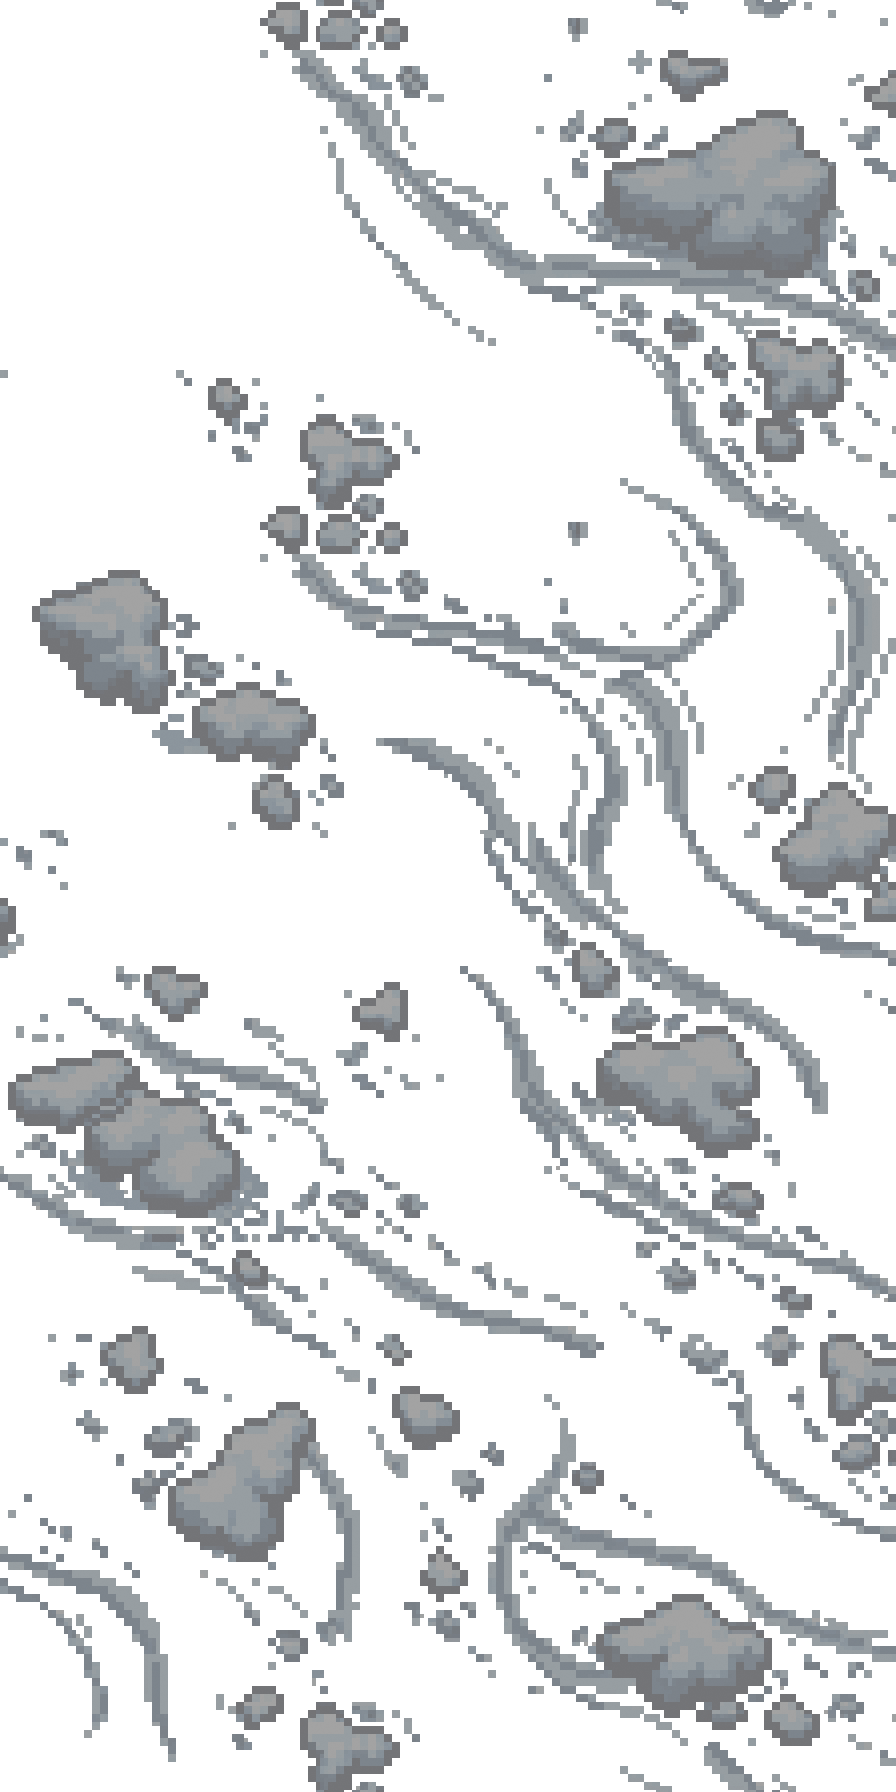
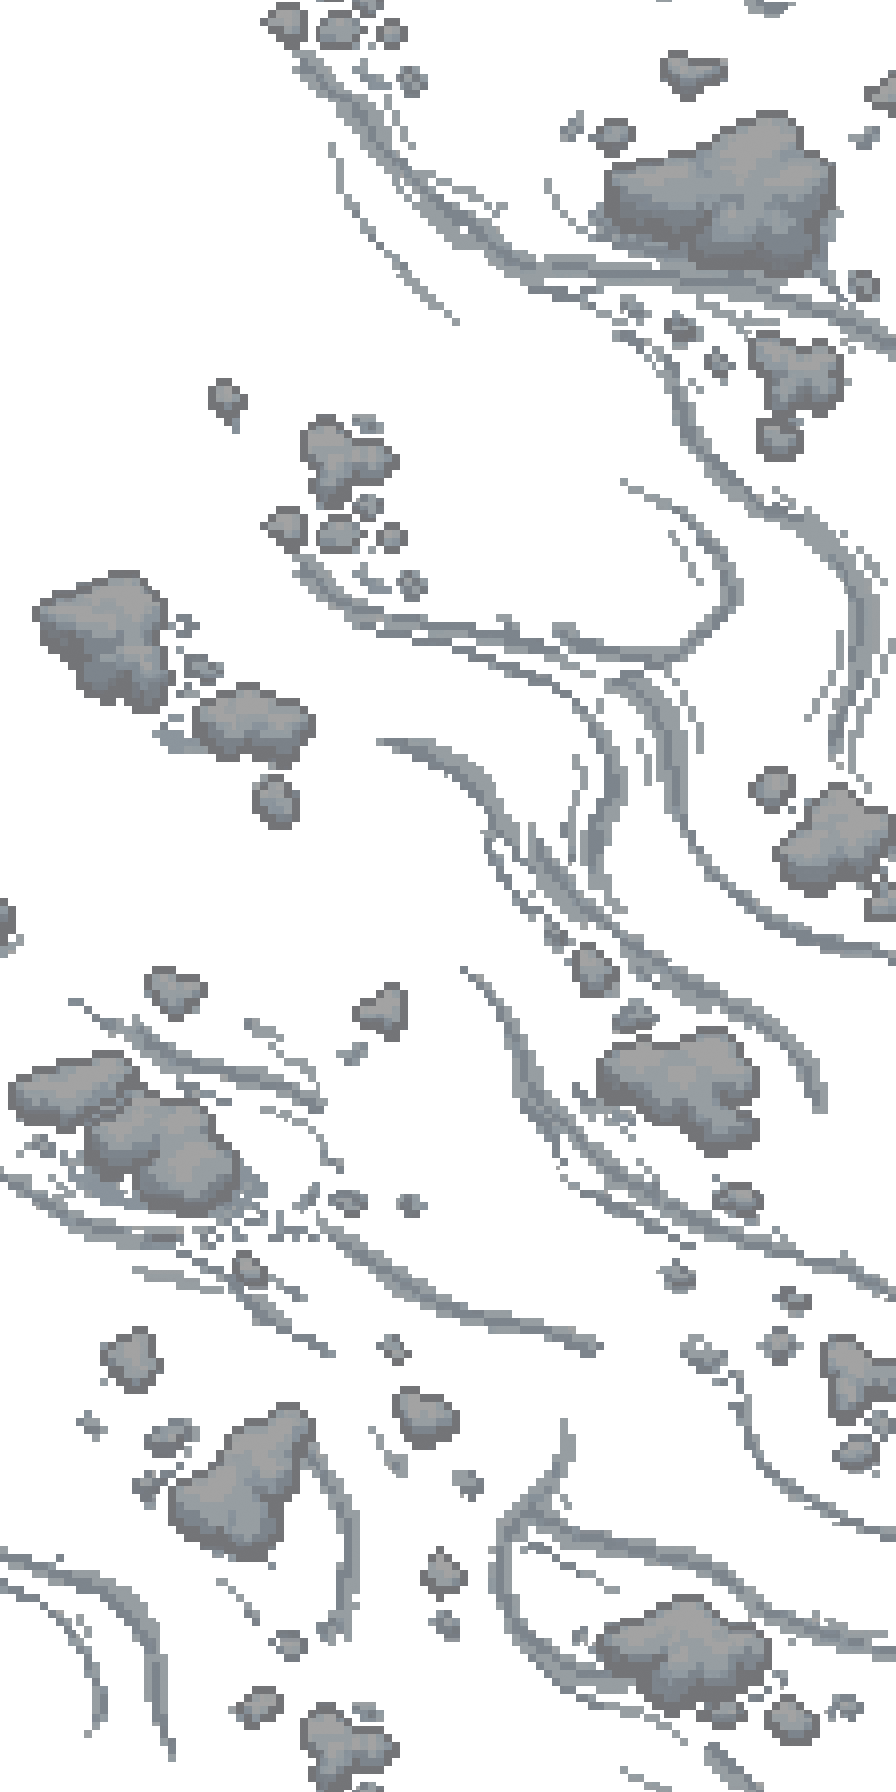
Frost backdrops: v1 ground is the full-height pack-ice drawing
- v1/mid.png is rebuilt from the full-height pack-ice candidate, so the tile no longer repeats twice. v1/mask.txt puts water back on the channels between the floes, so icebreakers and rigs land on water.
- v1/flow.png is trimmed to 24.5% coverage.

diff --git a/Pause/Assets/Art/Worlds/Frost/backdrop_v3/src~/frost_redraw/build_tiles.py b/Pause/Assets/Art/Worlds/Frost/backdrop_v3/src~/frost_redraw/build_tiles.py
@@ -8,8 +8,8 @@ Installs (overwrites the PNG bytes in place, the .meta files are untouched):
 The other v2 layers and v3 / v4 are not part of this redraw.
 
 Per layer, all in the 224-wide source grid (one source pixel = one 4 x 4 cell of the 896 x 1792 tile):
-  1. CROP   v1_mid is a 224 x 224 drawing letterboxed in white: its content band is cut out and repeated twice
-            down the tile (period 896 px) after step 2. Everything else uses the full 224 x 448.
+  1. CROP   a 224 x 224 drawing letterboxed in white (none now: v1_mid is the full-height r1_2) would have its band cut
+            out and repeated twice down the tile after step 2. flow: the faintest wisps are dropped to FLOW_COVER.
   2. SEAM   two-cut quilt (seamless()): a 2 x O row strip found elsewhere in the same drawing is spliced over the
             wrap, cut in and out along minimum-error paths (hard cuts where the pieces already agree: no mirror, no
             blur), so the last row and the first row are rows that were neighbours in the drawing.
@@ -48,6 +48,7 @@ TARGET = {
     "v2/mid": (.165, .290, .36),
 }
 FLOW_TARGET = {"v1/flow": (.30, .40, .42)}   # value of the wisps' own colour (median, p90, max)
+FLOW_COVER = .245                             # share of flow texels that may show (skill verifier: <= .25)
 FLOW_ALPHA = .55                              # their peak straight alpha
 GAMMA_RANGE = (.6, 1.4)              # flatter than .6 washes the darks out, steeper than 1.4 crushes them
 
@@ -134,6 +135,26 @@ def seamless(a):
     return out, k
 
 
+def trim_flow(a, cover):
+    """Drop the faintest wisps (connected pieces, least visible first: size x mean value) until <= cover of texels show."""
+    from scipy import ndimage
+    op = a[..., 3] > 0
+    lab, n = ndimage.label(op, structure=np.ones((3, 3)))
+    if op.mean() <= cover or n == 0:
+        return a
+    ids = np.arange(1, n + 1)
+    size = ndimage.sum(op, lab, ids)
+    val = ndimage.mean(a[..., :3].max(-1).astype(np.float64), lab, ids)
+    out = a.copy()
+    left = op.sum()
+    for i in np.argsort(size * val):
+        if left <= cover * op.size:
+            break
+        out[lab == ids[i]] = 0
+        left -= size[i]
+    return out
+
+
 def value(rgb):
     return rgb.max(-1)
 
@@ -216,13 +237,15 @@ def pixel_pass(a, seed):
 def build(key):
     v, layer = key.split("/")
     a = load(f"{v}_{layer}.png")
-    if key == "v1/mid":
+    if layer != "flow":
         y0, y1 = content_rows(a)
-        a = a[y0:y1]
-        if a.shape[0] != 224:
-            raise SystemExit(f"v1_mid content band is {a.shape[0]} rows, expected 224")
+        if y1 - y0 < a.shape[0]:                   # a letterboxed square drawing: its band, repeated twice
+            a = a[y0:y1]
+            if a.shape[0] != 224:
+                raise SystemExit(f"{key}: content band is {a.shape[0]} rows, expected 224 or 448")
     a, k = seamless(a)
     if layer == "flow":
+        a = trim_flow(a, FLOW_COVER)
         a, info = grade(a, FLOW_TARGET[key], FLOW_ALPHA)
     else:
         a[..., 3] = 255
